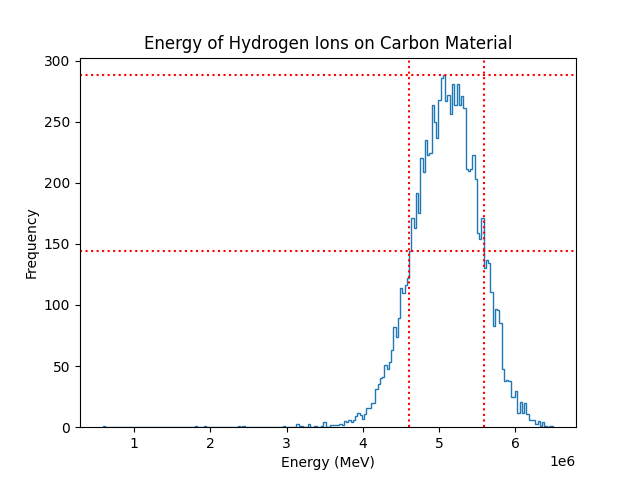
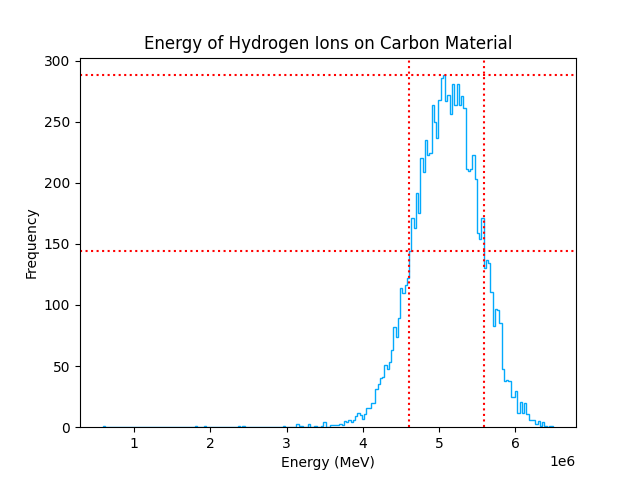
add plots.py
- create multiple plots for each elements
- remove some comment on main.py (moved it to format data)
- upload plot pictures

diff --git a/plots.py b/plots.py
@@ -1,0 +1,77 @@
+import pandas as pd
+import matplotlib.pyplot as plt
+
+elements = ["Carbon", "Copper", "Iron", "Zinc"]
+colors = ["#fc0362", "#03fc84", "#0352fc", "#cf03fc"]
+
+data_hydrogen = pd.read_csv("Hydrogen in Carbon.txt", sep="\t", header=None)
+data_copper = pd.read_csv("Hydrogen in Copper.txt", sep="\t", header=None)
+data_iron = pd.read_csv("Hydrogen in Iron.txt", sep="\t", header=None)
+data_zinc = pd.read_csv("Hydrogen in Zinc.txt", sep="\t", header=None)
+
+data = [data_hydrogen, data_copper, data_iron, data_zinc]
+
+#--------------histogram plots-----------------
+
+bins = 200
+
+for i in range(0, len(data)):
+    plt.title("Energy of Hydrogen Ions on " + elements[i])
+    plt.xlabel("Energy (MeV)")
+    plt.ylabel("Frequency")
+    plt.hist(data[i][3], bins=bins, histtype="step", color=colors[i])
+    file_name = "histogram_" + elements[i] + ".png"
+    plt.savefig(file_name)
+    plt.show()
+
+
+for i in range(0, len(data)):
+    plt.hist(data[i][3], bins=bins, histtype="step", color=colors[i])
+
+plt.title("Energy of Hydrogen Ions on different Materials")
+plt.legend(elements)
+plt.xlabel("Energy (MeV)")
+plt.ylabel("Frequency")
+
+plt.savefig("histogram plots.png")
+plt.savefig("histogram plots.pdf")
+plt.show()
+
+#------------scatter plots----------------
+
+#set size
+'''
+canvas_size = []
+horizontal = []
+vertical = []
+for i in range(0, len(data)):
+    horizontal.append(max(data[i][5]))
+    horizontal.append(min(data[i][5]))
+    vertical.append(min(data[i][6]))
+    vertical.append(max(data[i][6]))
+horizontal_size = int(max(horizontal) - min(horizontal))
+vertical_size = int(max(vertical) - min(vertical))
+'''
+
+#show each plot
+for i in range(0, len(data)):
+    plt.title("Scatter plot showing position of ions on " + elements[i])
+    plt.xlabel("y-axis")
+    plt.ylabel("z-axis")
+    plt.scatter(data[i][5], data[i][6], alpha=0.5, color=colors[i])
+    file_name = "scatter_" + elements[i] + ".png"
+    plt.savefig(file_name)
+    plt.show()
+
+#show all elements
+for i in range(0, len(data)):
+    plt.scatter(data[i][5], data[i][6], alpha=0.5, color=colors[i])
+
+plt.title("Scatter plot showing position of ions")
+plt.xlabel("y-axis")
+plt.ylabel("z-axis")
+plt.legend(elements)
+plt.savefig("scatter plots.png")
+plt.savefig("scatter plots.pdf")
+
+plt.show()

diff --git a/main.py b/main.py
@@ -2,14 +2,6 @@ import pandas as pd
 import numpy as np
 import matplotlib.pyplot as plt
 
-'''
-text = str(open("Hydrogen in Carbon.txt", "r").read())
-text = text.replace("    ", "\t")
-text = text.replace("   ", "\t")
-text = text.replace("  ", "\t")
-text = text.replace(" ", "\t")
-'''
-
 data = pd.read_csv("Hydrogen in Carbon.txt", sep="\t", header=None)
 avg = np.mean(data[3])
 sd = np.std(data[3])
@@ -21,7 +13,7 @@ bins = 200
 
 ''''''
 #--------------histogram plot---------------
-x = plt.hist((data[3]), bins=bins, histtype="step")
+x = plt.hist((data[3]), bins=bins, histtype="step", color="#03a9fc")
 plt.title("Energy of Hydrogen Ions on Carbon Material")
 plt.xlabel("Energy (MeV)")
 plt.ylabel("Frequency")
@@ -125,7 +117,7 @@ for i in range(0, loop_range):
     color_list.append(x)
 
 #---------------scatter plot----------------
-plt.scatter(list(data[5]), list(data[6]), alpha=0.2, c=color_list)
+plt.scatter(list(data[5]), list(data[6]), alpha=0.5, c=color_list)
 plt.title("Scatter plot showing position of ions")
 plt.xlabel("y-axis")
 plt.ylabel("z-axis")
